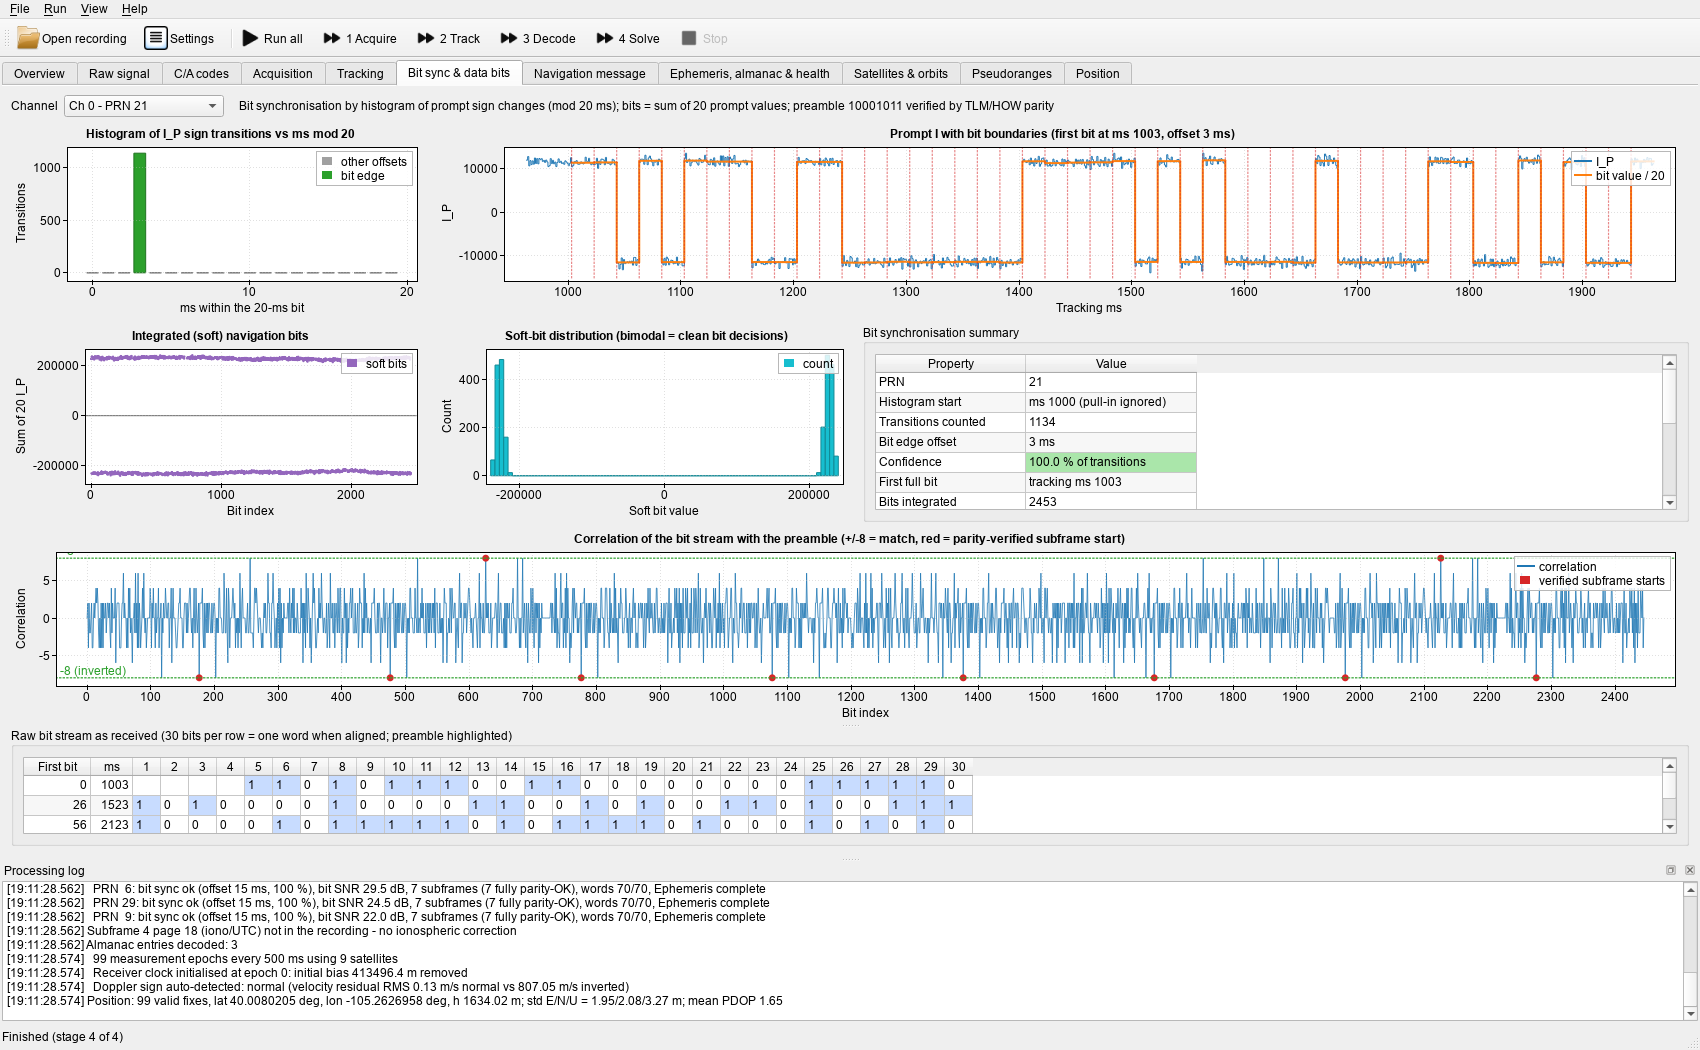
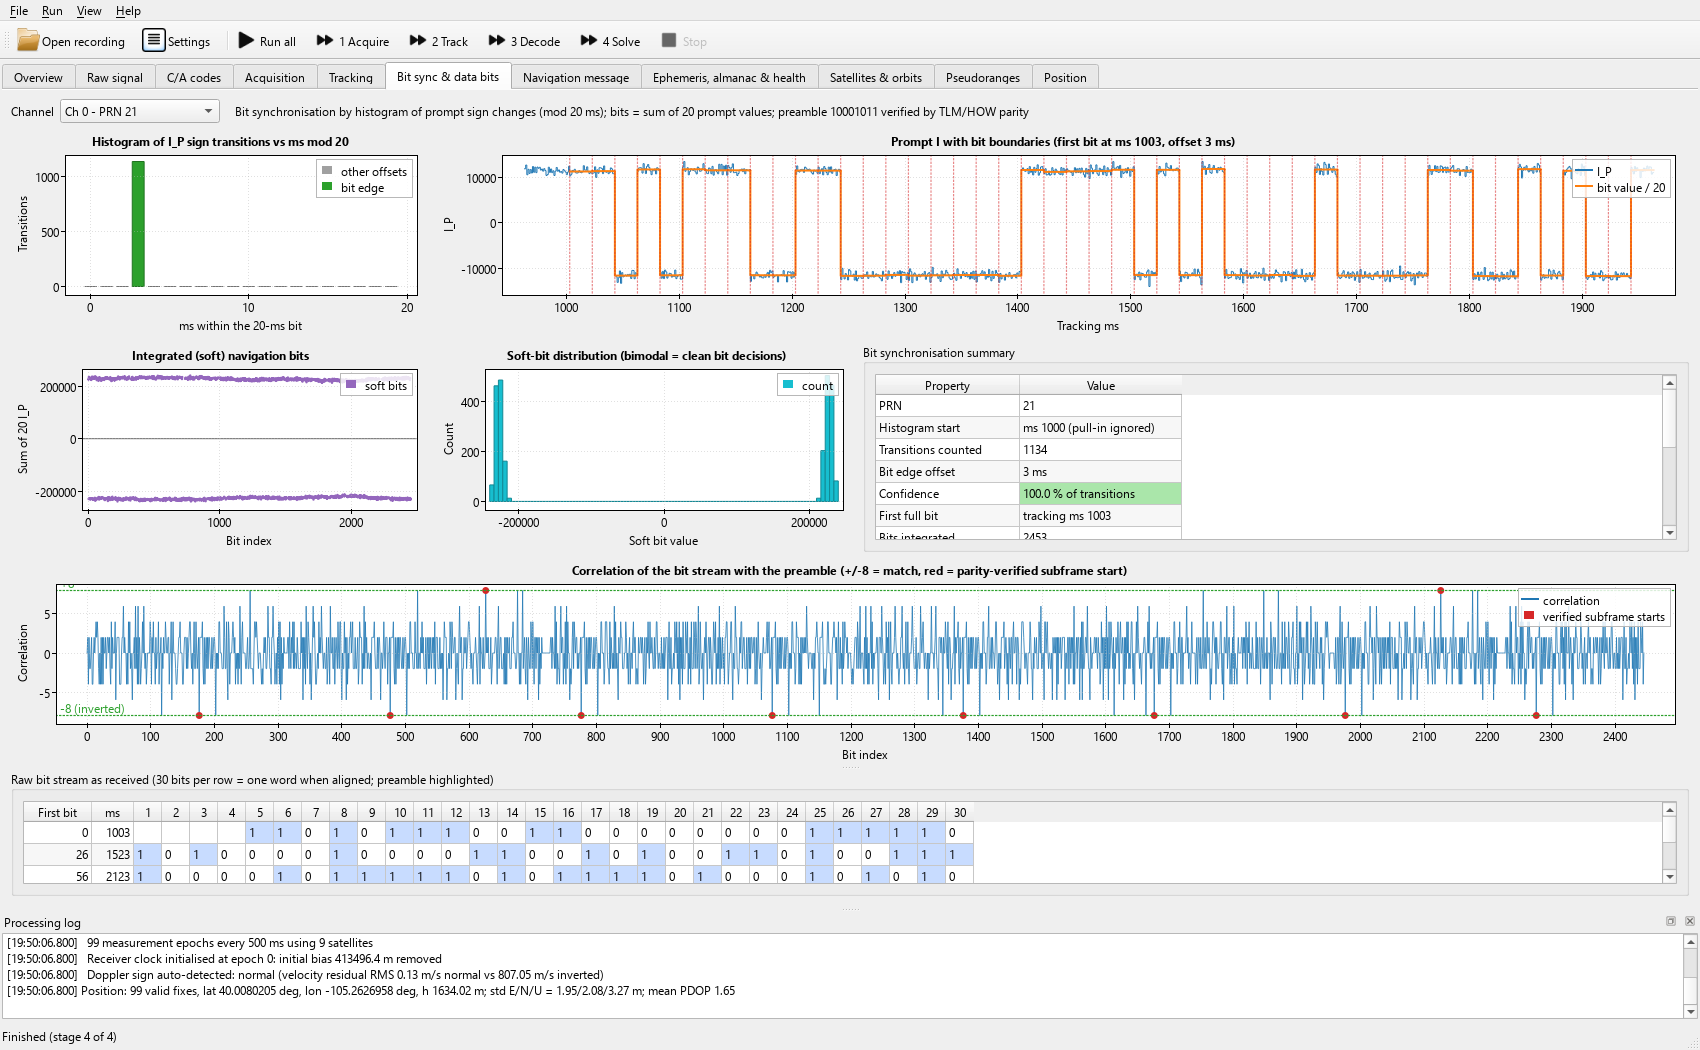
Add screenshot gallery to README; fix correlator-shape tab
- README: Screenshots section covering every page and sub-tab with captions
- Tracking page: correlator-shape info label no longer stretches over the
  tab, and the correlation shape is computed automatically after tracking
- --screenshots mode pins the Segoe UI font so offscreen renders are
  consistent; screenshots regenerated

diff --git a/src/gui/TrackingPage.cpp b/src/gui/TrackingPage.cpp
@@ -100,6 +100,11 @@ void TrackingPage::refresh()
     showChannel();
     fillAllChannels();
     fillSummary();
+    ui->shapePlot->clear();
+    ui->shapeTable->beginFill(0);
+    ui->shapeTable->endFill();
+    ui->shapeInfoLabel->clear();
+    if (cc->count() > 0) computeShape();   // so the correlator tab is not empty after tracking
 }
 
 void TrackingPage::selectPrn(int prn)

diff --git a/src/main.cpp b/src/main.cpp
@@ -21,6 +21,8 @@ int main(int argc, char* argv[])
         else if (!args[i].startsWith(QLatin1String("--"))) file = args[i];
     }
 
+    if (!shots.isEmpty()) app.setFont(QFont(QStringLiteral("Segoe UI"), 9));   // deterministic font for offscreen rendering
+
     gui::MainWindow w;
     if (!shots.isEmpty()) {
         w.resize(1700, 1050);

diff --git a/README.md b/README.md
@@ -87,6 +87,110 @@ SoftGpsReceiver <file.bin> --screenshots <dir>   # process, save a PNG of every 
 
 Processing the whole file takes about 13 s on a 12-core CPU: acquisition 2 s, tracking 9 s with one thread per channel.
 
+## Screenshots
+
+All screenshots below come from processing the sample recording. You can regenerate them with
+`SoftGpsReceiver <file.bin> --screenshots <dir>`.
+
+### Overview
+Recording parameters, pipeline status, a per-satellite summary (acquisition, tracking, bit sync, parity,
+ephemeris, health, elevation) and the built-in description of the algorithms.
+
+![Overview](docs/screenshots/01_Overview.png)
+
+### Raw signal
+Time-domain samples, ADC level histogram against a Gaussian, Welch power spectral density showing the
+front-end passband around the IF, spectrogram, and signal statistics.
+
+![Raw signal](docs/screenshots/02_Raw_signal.png)
+
+### C/A codes
+G1, G2<sub>i</sub> and C/A chip sequences, the three-valued autocorrelation, cross-correlation between two PRNs,
+the correlation peak sampled at the receiver rate, the 1 kHz line spectrum, and a table that checks all 32 codes
+against IS-GPS-200.
+
+![C/A codes](docs/screenshots/03_C-A_codes.png)
+
+### Acquisition
+Detection metric and C/N0 for every PRN, the full results table, and for the selected PRN: the code-phase ×
+Doppler correlation surface, code-phase and Doppler slices through the peak, and the fine-frequency search.
+
+![Acquisition](docs/screenshots/04_Acquisition.png)
+
+### Tracking
+**Channel detail:** prompt I/Q scatter, prompt correlator outputs (navigation bits), early/prompt/late
+envelopes, PLL, FLL and DLL discriminators, carrier Doppler, code NCO, C/N0, phase lock indicator, accumulated
+Doppler and code-epoch drift, all on linked time axes.
+
+![Tracking - channel detail](docs/screenshots/05_Tracking_Channel_detail.png)
+
+**All channels:** C/N0, Doppler, phase lock indicator and DLL error overlaid for every channel.
+
+![Tracking - all channels](docs/screenshots/06_Tracking_All_channels.png)
+
+**Correlator shape:** the correlation function recomputed with a bank of correlators from the stored NCO
+state, showing the peak rounded by the front-end filter, with the loop's early/prompt/late points on it.
+
+![Tracking - correlator shape](docs/screenshots/07_Tracking_Correlator_shape.png)
+
+**Summary & loop design:** per-channel statistics and the PLL/FLL/DLL loop-filter coefficients.
+
+![Tracking - summary and loop design](docs/screenshots/08_Tracking_Summary__loop_design.png)
+
+### Bit sync & data bits
+Histogram of prompt sign transitions modulo 20 ms, prompt I with the detected bit edges, the soft bits and their
+distribution, the bit stream correlated with the preamble (parity-verified subframe starts in red), and the raw
+bit grid.
+
+![Bit sync and data bits](docs/screenshots/09_Bit_sync__data_bits.png)
+
+### Navigation message
+Every decoded subframe (TOW, page, parity, polarity, flags). For the selected subframe: each word with its
+received and computed parity, a colour-coded map of the 300 bits by field, and every field with raw bits, scale
+factor, value, units and interpretation.
+
+![Navigation message](docs/screenshots/10_Navigation_message.png)
+
+### Ephemeris, almanac & health
+Broadcast ephemeris and clock parameters for all satellites, decoded almanac pages, satellite health from
+subframe 1, the almanac and the page-25 summaries, and the ionosphere/UTC, special-message, NMCT and
+received-pages tables.
+
+![Ephemeris](docs/screenshots/11_Ephemeris,_almanac__health_Ephemeris_%28subframes_1-3%29.png)
+
+![Almanac](docs/screenshots/12_Ephemeris,_almanac__health_Almanac.png)
+
+![Health and configuration](docs/screenshots/13_Ephemeris,_almanac__health_Health__configuration.png)
+
+![Iono, UTC and other pages](docs/screenshots/14_Ephemeris,_almanac__health_Iono_-_UTC__other_pages.png)
+
+### Satellites & orbits
+Sky plot with tracks, elevation over time, sub-satellite points, satellite position/velocity/clock at the
+selected epoch, and the IS-GPS-200 orbit computation step by step (including each Kepler iteration).
+
+![Satellites and orbits](docs/screenshots/15_Satellites__orbits.png)
+
+### Pseudoranges
+Every correction applied to each pseudorange at the selected epoch, with pseudorange change, post-fit residuals,
+code-minus-carrier, measured vs predicted Doppler, tropospheric delay and satellite clock correction over time.
+
+![Pseudoranges](docs/screenshots/16_Pseudoranges.png)
+
+### Position
+**Summary & plots:** mean position, accuracy statistics, horizontal scatter with CEP/2DRMS circles, E/N/U
+error, receiver clock bias and drift, DOP, satellites used, and Doppler velocity.
+
+![Position - summary and plots](docs/screenshots/17_Position_Summary__plots.png)
+
+**Solutions:** every epoch's fix (geodetic, ECEF, ENU, clock, DOP, velocity, residual RMS), exportable to CSV/KML.
+
+![Position - solutions](docs/screenshots/18_Position_Solutions.png)
+
+**Least-squares detail:** every Gauss–Newton iteration from the Earth's centre to convergence, the design
+matrix and residuals, and the cofactor matrix in the local E/N/U/clock frame.
+
+![Position - least-squares detail](docs/screenshots/19_Position_Least-squares_detail.png)
+
 ## Code structure
 
 ```
